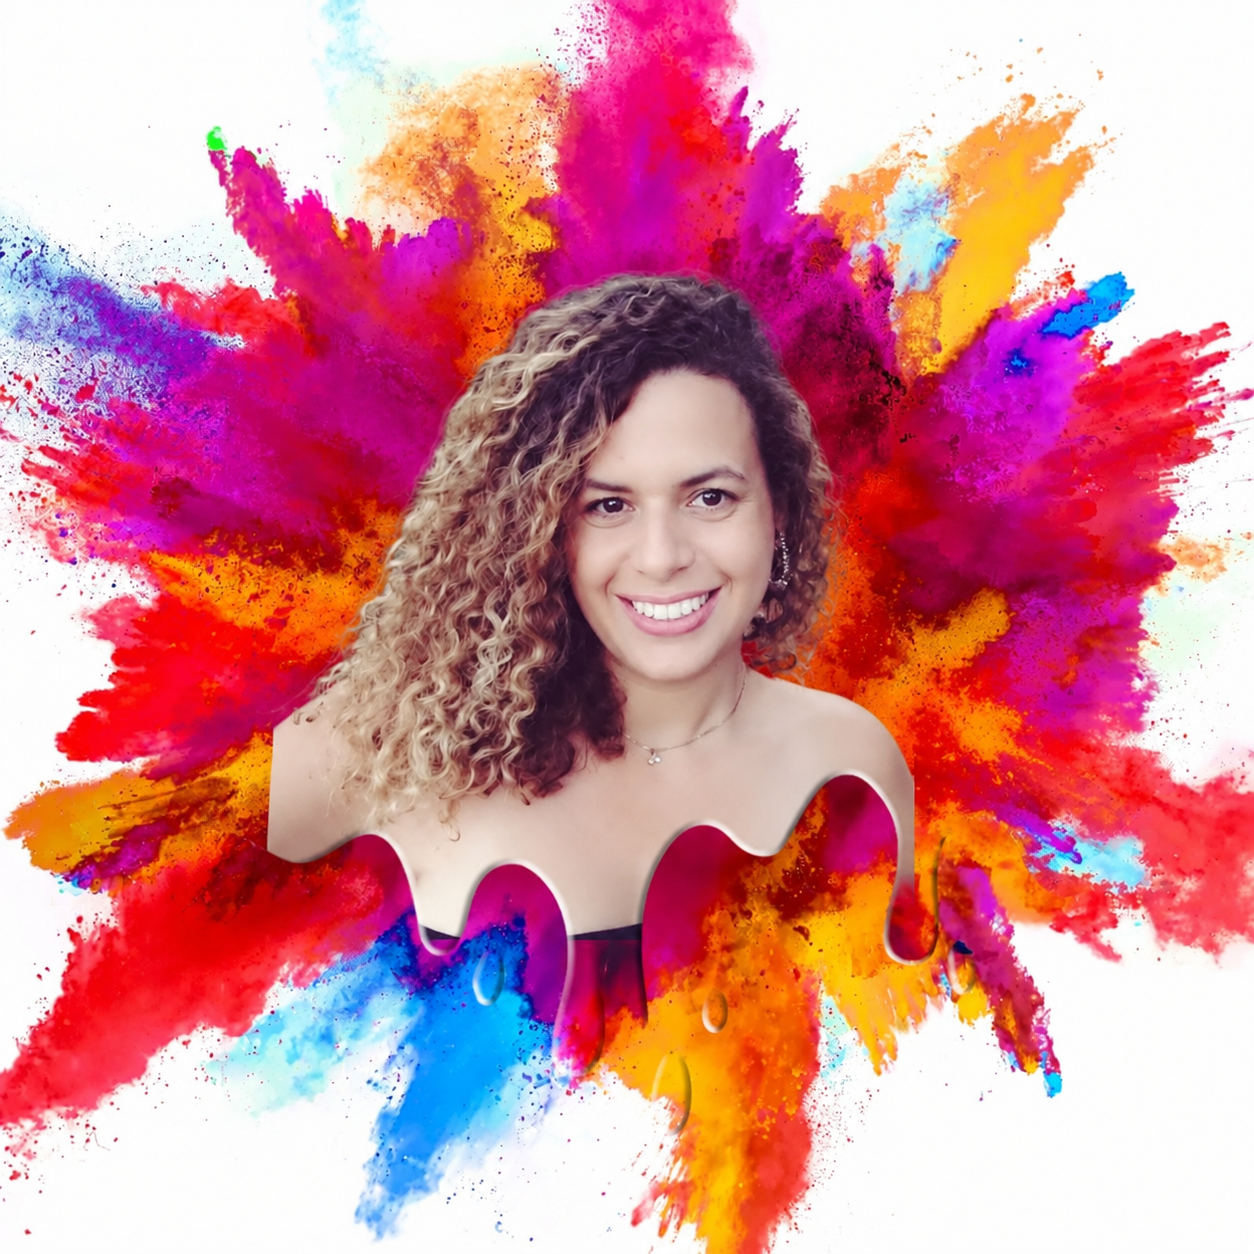
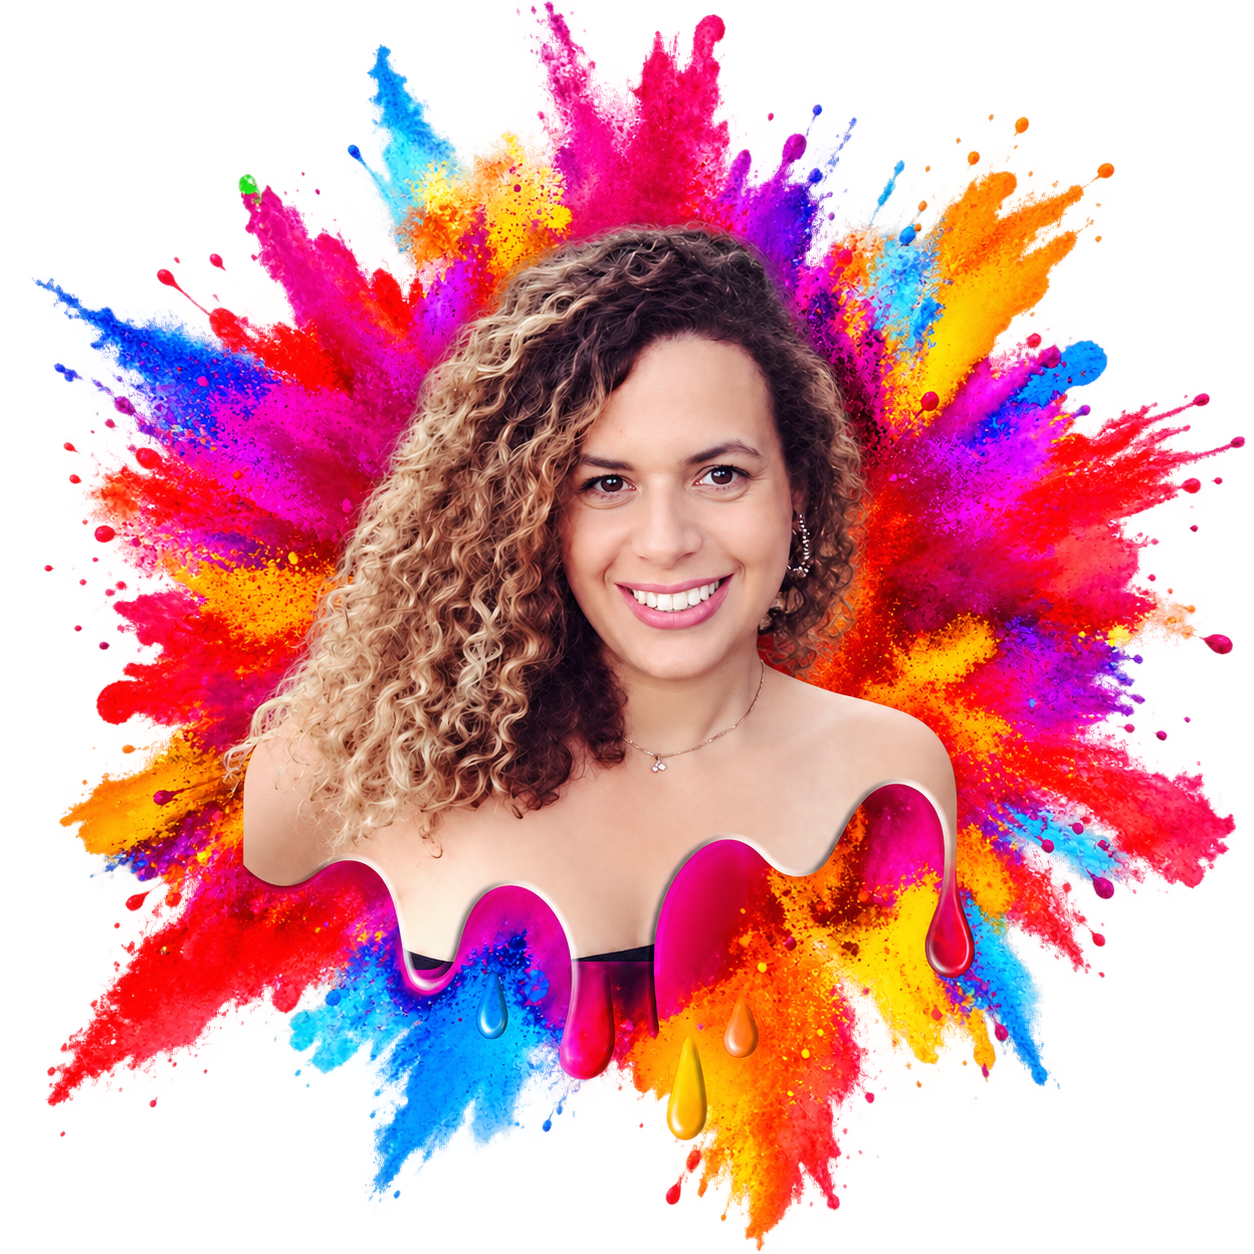
Use transparent portrait that floats on the hero background
Swap in the background-removed portrait PNG and drop the white-card treatment
(no border-radius, box-shadow or decorative frame). Show it in full with a
soft drop-shadow that follows the splash shape.

Claude-Session: https://claude.ai/code/session_016HQBb5YtuheSWMz9f9ebzG

diff --git a/app/globals.css b/app/globals.css
@@ -139,30 +139,19 @@ img {
   order: 1;
   position: relative;
   width: 100%;
-  max-width: 360px;
+  max-width: 400px;
   /* hug the right (inline-start) edge of the hero */
   margin-inline-end: auto;
 }
 
+/* Transparent PNG — let the colour splash float on the section background
+   with a soft shadow that follows its shape (no card frame). */
 .hero__portrait img {
   width: 100%;
   height: auto;
-  border-radius: 16px;
-  box-shadow: var(--shadow);
   aspect-ratio: 1 / 1;
-  object-fit: cover;
-}
-
-.hero__portrait::after {
-  content: "";
-  position: absolute;
-  inset-inline-end: -14px;
-  bottom: -14px;
-  width: 62%;
-  height: 62%;
-  border: 2px solid var(--aqua-soft);
-  border-radius: 14px;
-  z-index: -1;
+  object-fit: contain;
+  filter: drop-shadow(0 16px 26px rgba(20, 58, 56, 0.18));
 }
 
 /* ---------- Section shell ---------- */
@@ -422,9 +411,6 @@ img {
   .feature--quote-start .feature__text,
   .feature--quote-end .feature__text {
     order: 2;
-  }
-  .hero__portrait::after {
-    display: none;
   }
 }
 
